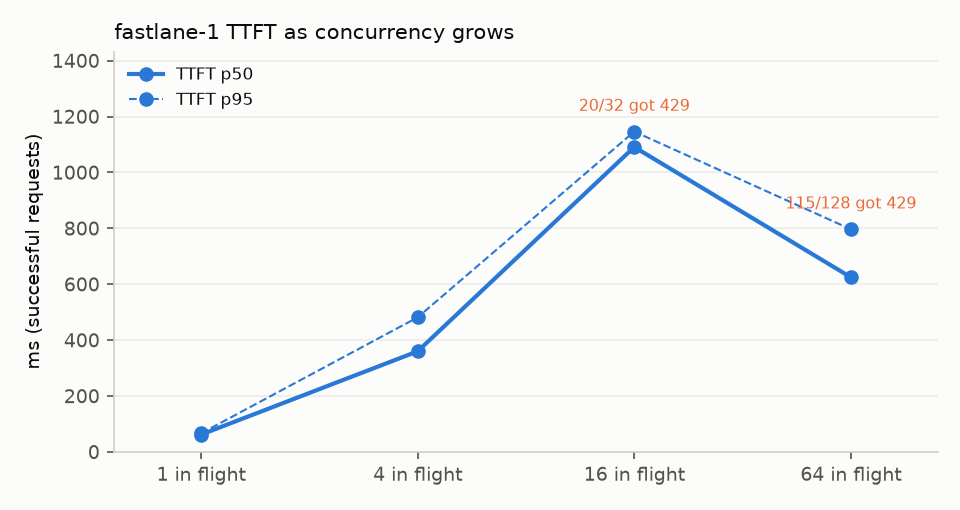
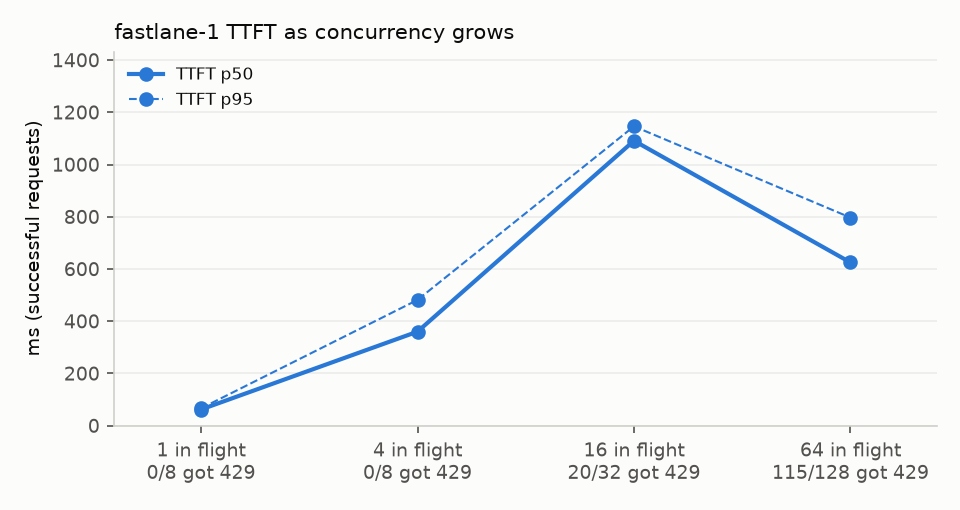
Move 429 counts into the concurrency chart axis labels

diff --git a/moss_eval/report.py b/moss_eval/report.py
@@ -96,13 +96,8 @@ def _more_charts(run_dir, out_dir, res, plt):
         x = list(range(len(lv)))
         ax.plot(x, [conc[k]["ttft_s"]["p50"] * 1000 for k in lv], color=BLUE, marker="o", linewidth=2, label="TTFT p50")
         ax.plot(x, [conc[k]["ttft_s"]["p95"] * 1000 for k in lv], color=BLUE, marker="o", linewidth=1, linestyle="--", label="TTFT p95")
-        for i, k in enumerate(lv):
-            r429 = int(conc[k]["status_counts"].get("429", 0))
-            if r429:
-                ax.annotate(f"{r429}/{conc[k]['requests']} got 429", (i, conc[k]["ttft_s"]["p95"] * 1000),
-                            textcoords="offset points", xytext=(0, 10), ha="center", fontsize=7.5, color=ORANGE)
         ax.set_xlim(-0.4, len(lv) - 0.6)
-        ax.set_xticks(x, [f"{k} in flight" for k in lv])
+        ax.set_xticks(x, [f"{k} in flight\n{int(conc[k]['status_counts'].get('429', 0))}/{conc[k]['requests']} got 429" for k in lv])
         ax.set_ylabel("ms (successful requests)", color=INK, fontsize=9)
         ax.set_ylim(0, max(conc[k]["ttft_s"]["p95"] for k in lv) * 1000 * 1.25)
         ax.set_title("fastlane-1 TTFT as concurrency grows", color=INK, fontsize=10, loc="left")
